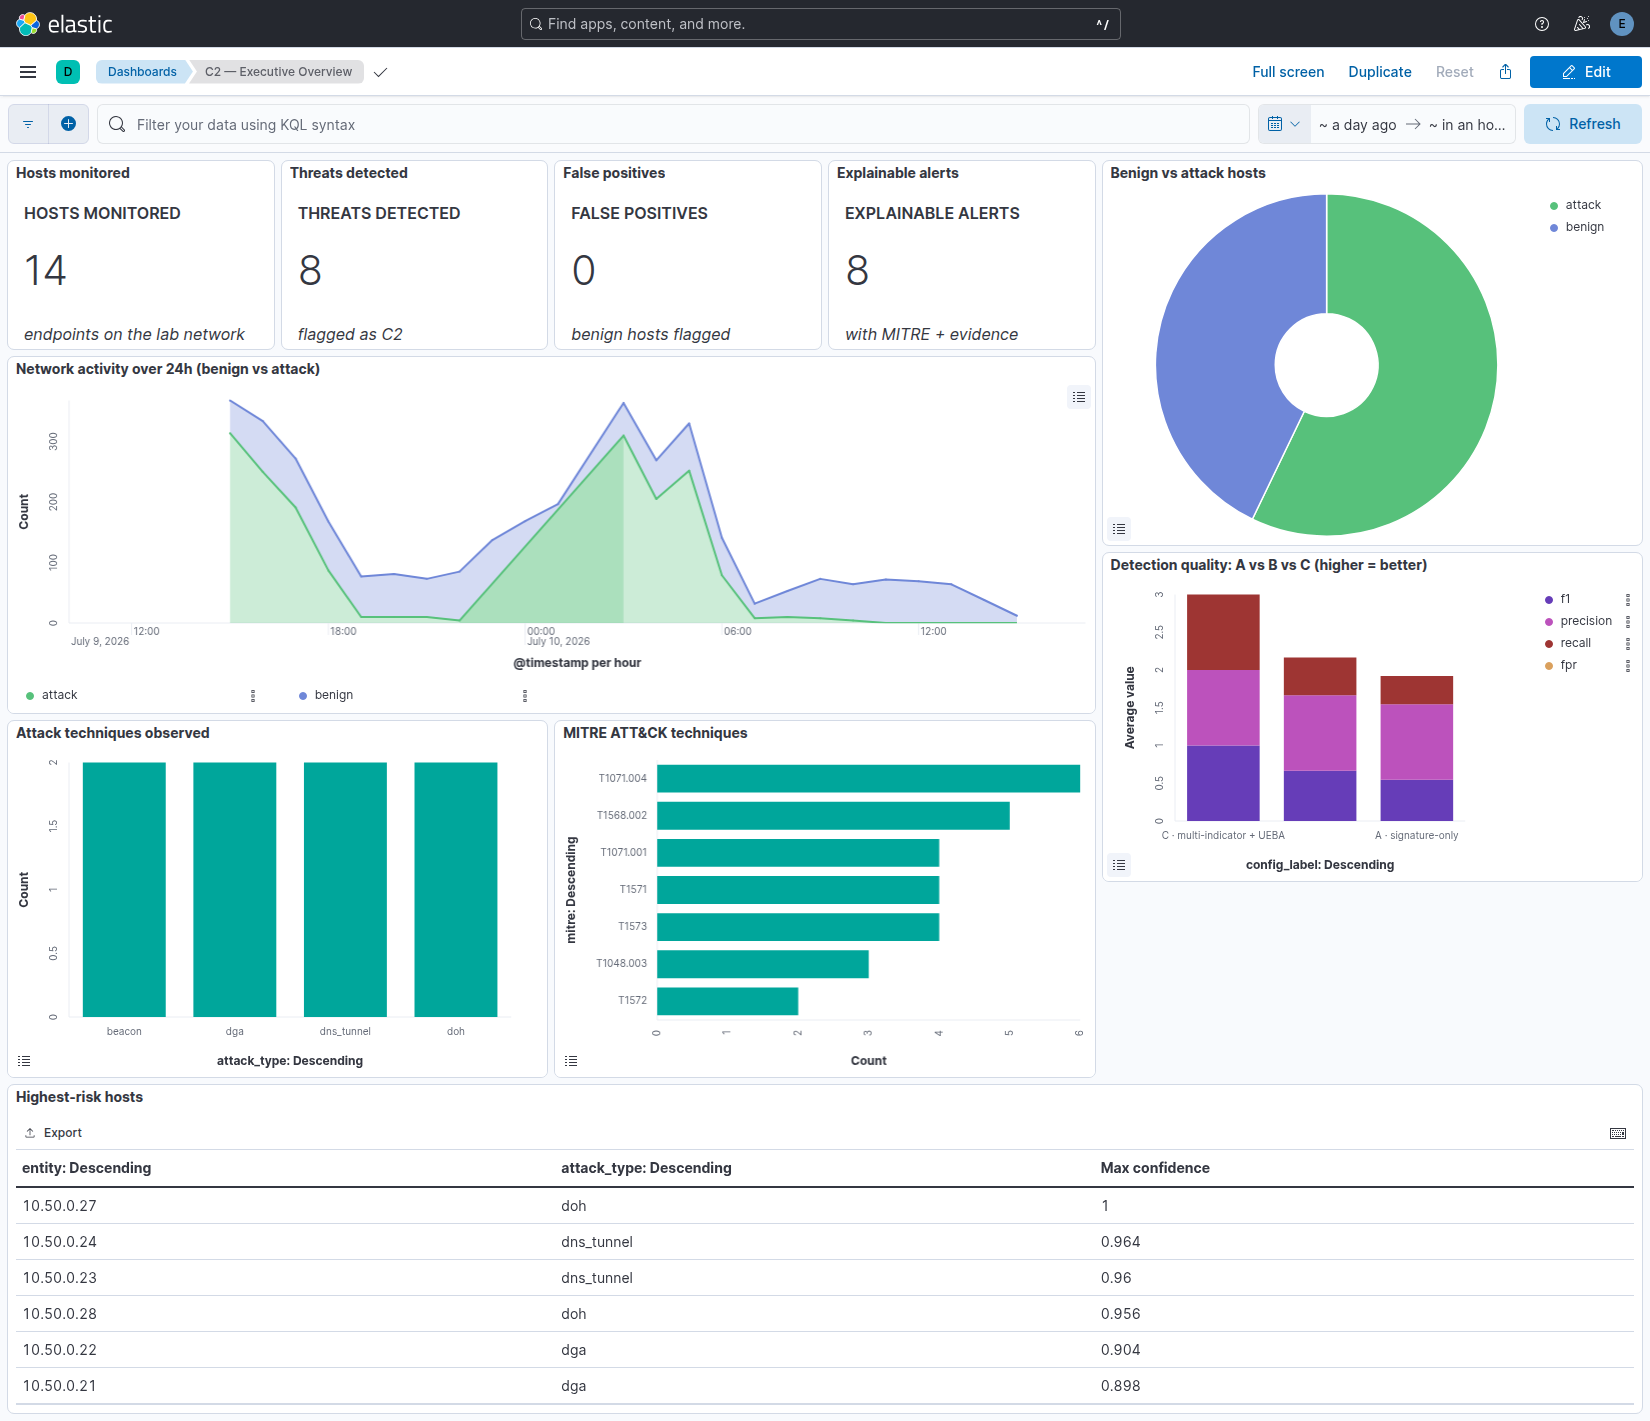
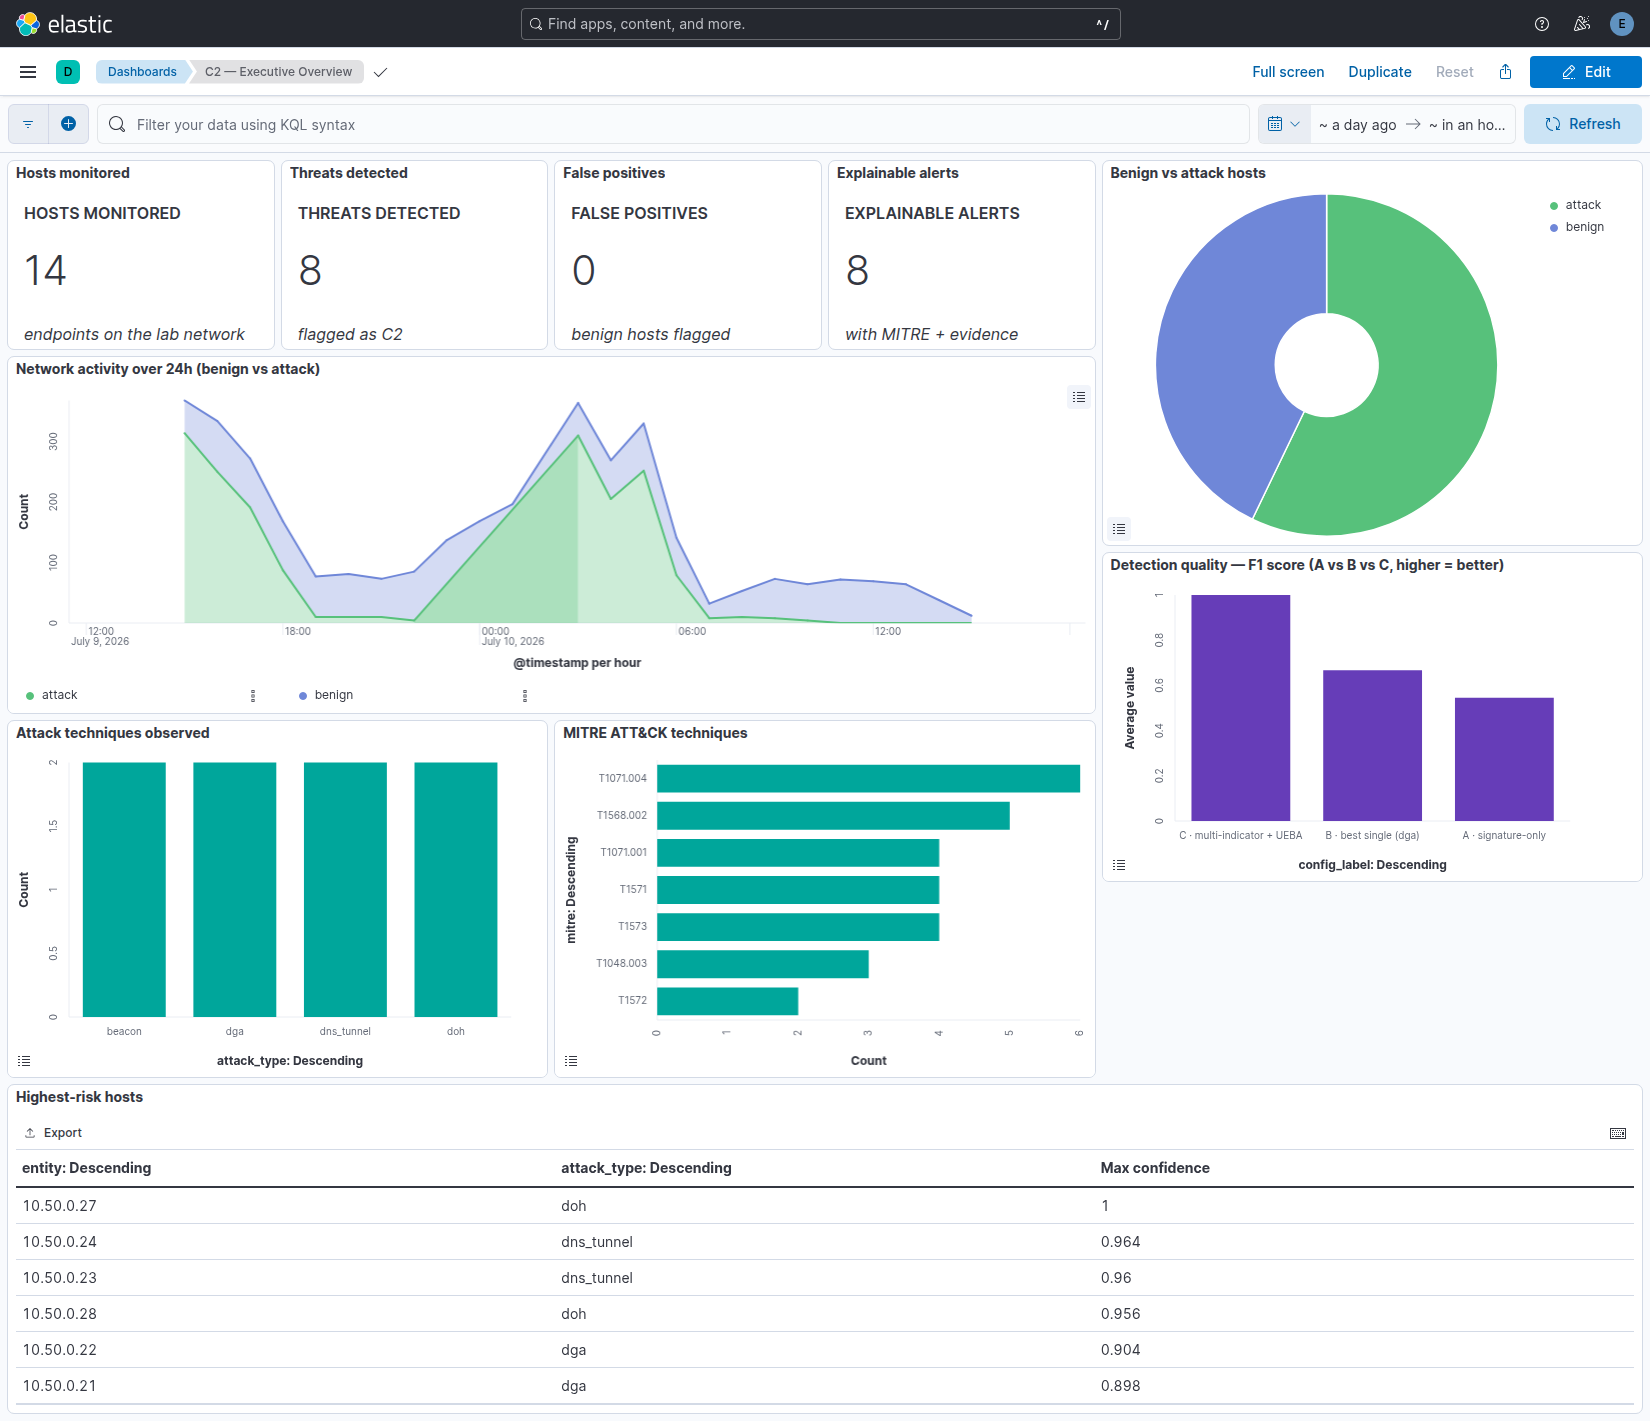
Review fixes: clean single-metric F1 A/B/C chart; ES/Kibana auto-restart hardening; refresh doc
- exec dashboard 'Detection quality' now a single-series F1 bar (was misleading stacked mix of
  higher/lower-is-better metrics); with_query() helper filters metric:f1
- systemd Restart=on-failure for elasticsearch + kibana (recover from OOM)
- refreshed architecture doc + dashboard image

Changed region(s): [[0.68, 0.3716, 0.9891, 0.6193], [0.2473, 0.2787, 0.6182, 0.4645], [0.0927, 0.2787, 0.2164, 0.4645]]

diff --git a/scripts/build_dashboards.py b/scripts/build_dashboards.py
@@ -73,6 +73,14 @@ def vis(vid, title, vis_state, dv):
                            "type": "index-pattern", "id": dv}]}
 
 
+def with_query(obj, kql):
+    """Bake a KQL filter into a visualization's search source (keeps the data-view ref)."""
+    ss = {"query": {"query": kql, "language": "kuery"}, "filter": [],
+          "indexRefName": "kibanaSavedObjectMeta.searchSourceJSON.index"}
+    obj["attributes"]["kibanaSavedObjectMeta"]["searchSourceJSON"] = json.dumps(ss)
+    return obj
+
+
 def terms(field, size, schema, order_by="1", order="desc"):
     return {"id": "2", "enabled": True, "type": "terms", "schema": schema,
             "params": {"field": field, "size": size, "order": order, "orderBy": order_by,
@@ -241,8 +249,8 @@ objects += [
     timeseries("exec-timeline", "Network activity over 24h (benign vs attack)", "zeek-dns-view",
                "area", split="label", interval="h"),
     bars("exec-mitre", "MITRE ATT&CK techniques", "c2-alerts-view", "mitre", 12, horizontal=True),
-    bars("exec-abc", "Detection quality: A vs B vs C (higher = better)", "c2-eval-view",
-         "config_label", 3, metric=AVG("value"), split="metric"),
+    with_query(bars("exec-abc", "Detection quality — F1 score (A vs B vs C, higher = better)",
+                    "c2-eval-view", "config_label", 3, metric=AVG("value")), "metric : f1"),
     table("exec-top", "Highest-risk hosts", "c2-scores-view",
           [MAX("confidence"),
            {"id": "2", "type": "terms", "schema": "bucket", "enabled": True,